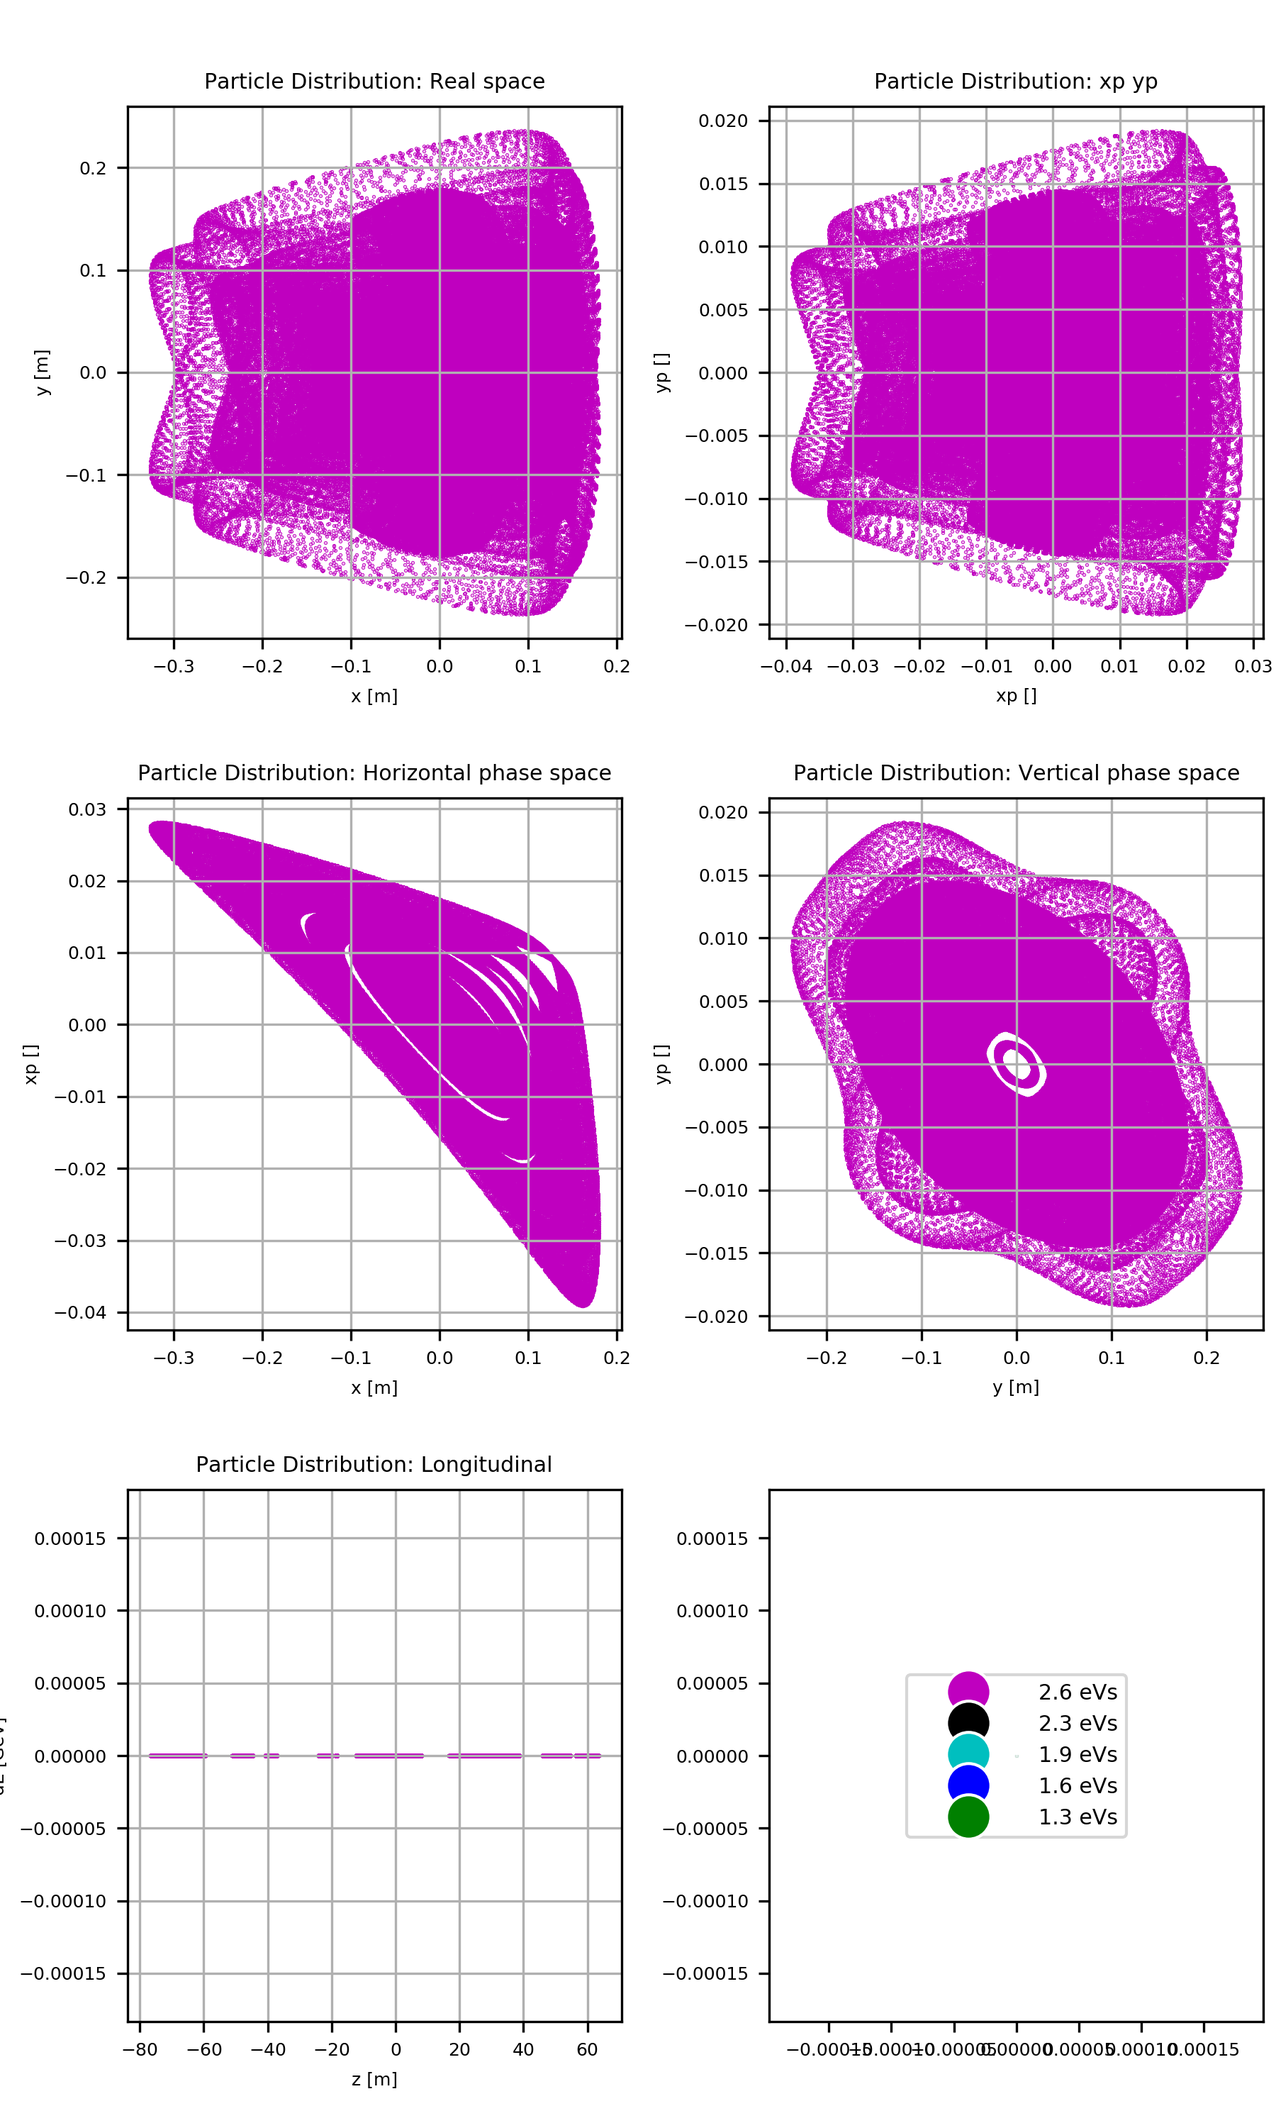
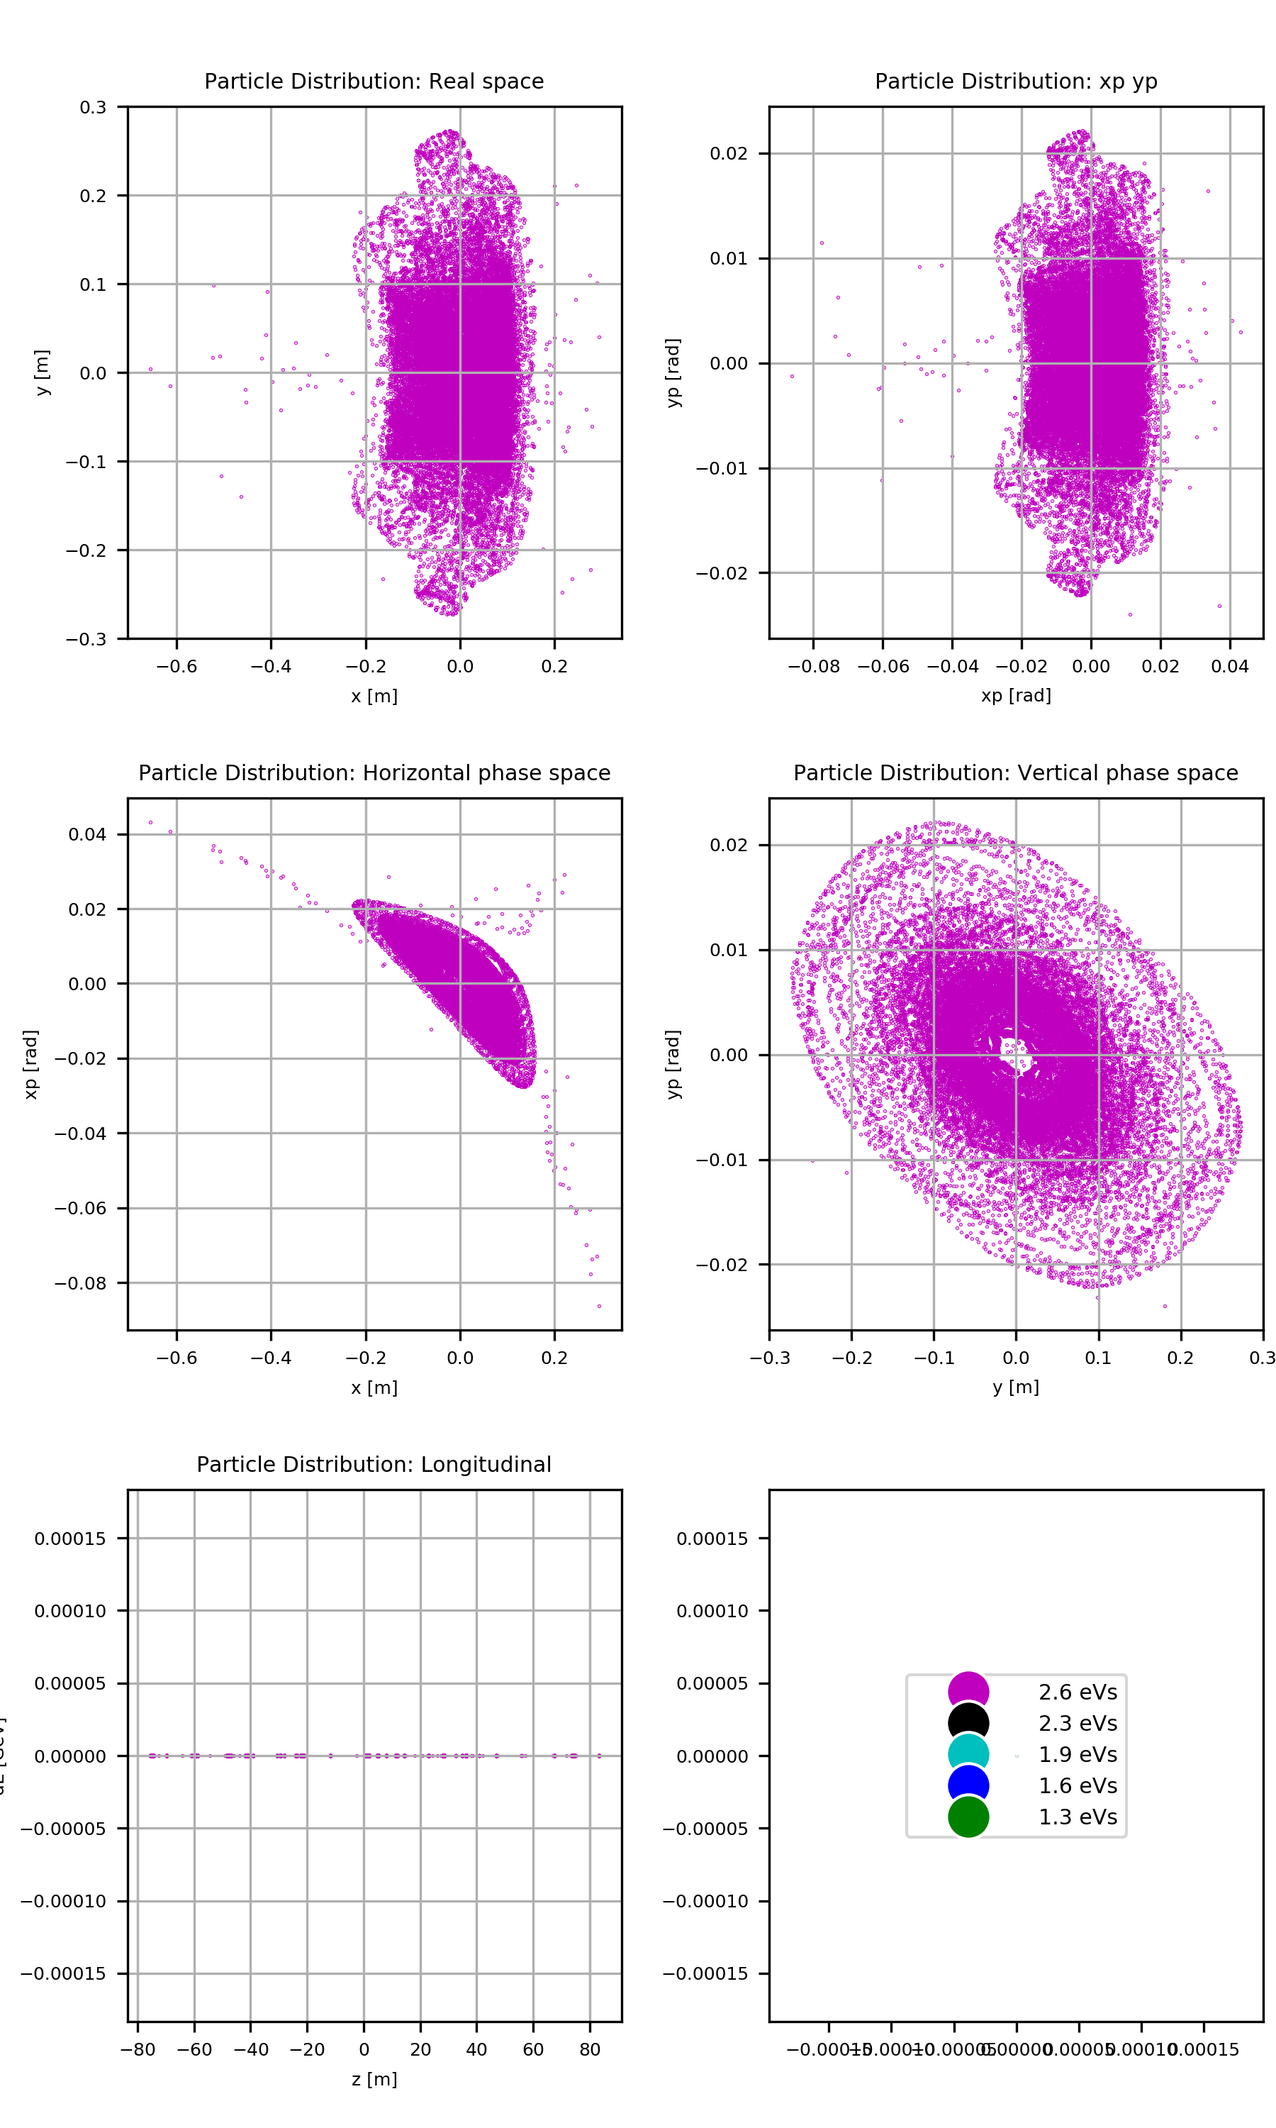
Added Test Distribtion for SIS18

diff --git a/Plotting/Bunch/plot_distributions.py b/Plotting/Bunch/plot_distributions.py
@@ -1,0 +1,150 @@
+# Plots the particle distributions in 5 phase spaces
+# x-y x-xp y-yp xp-yp z-dE
+# For the PS_Injection studies at different long. emittances
+
+import matplotlib.pyplot as plt
+from matplotlib.patches import Patch
+from matplotlib.lines import Line2D
+import numpy as np
+import scipy.io as sio 
+
+plt.rcParams['figure.figsize'] = [8.0, 6.0]
+plt.rcParams['figure.dpi'] = 300
+plt.rcParams['savefig.dpi'] = 300
+
+plt.rcParams['font.size'] = 6
+plt.rcParams['legend.fontsize'] = 'large'
+plt.rcParams['legend.handlelength'] = 5
+
+plt.rcParams['figure.titlesize'] = 'medium'
+
+plt.rcParams['lines.linewidth'] = 0.5
+plt.rcParams['lines.markersize'] = 0.25
+
+# Open File
+file_1p3='1.3.mainbunch_000999.mat'
+file_1p6='1.6.mainbunch_000999.mat'
+file_1p9='1.9.mainbunch_000999.mat'
+file_2p3='2.3.mainbunch_000999.mat'
+file_2p6='2.6.mainbunch_000999.mat'
+
+particles_1p3=dict()
+particles_1p6=dict()
+particles_1p9=dict()
+particles_2p3=dict()
+particles_2p6=dict()
+
+sio.loadmat(file_1p3, mdict=particles_1p3)
+sio.loadmat(file_1p6, mdict=particles_1p6)
+sio.loadmat(file_1p9, mdict=particles_1p9)
+sio.loadmat(file_2p3, mdict=particles_2p3)
+sio.loadmat(file_2p6, mdict=particles_2p6)
+
+# ~ print particles_1p3['bunchparameters'].dtype.names
+# ~ print dir(particles_1p3['bunchparameters'])
+# ~ exit()
+# ~ print particles_1p3['particles']['x'][0][0]
+# ~ print np.asarray(particles_1p3['particles']['x'][0][0][0])
+# ~ print np.squeeze(np.asarray(particles_1p3['particles']['x'][0][0][0]))
+
+# Parameters
+	# ~ x  = d['particles']['x'][()]
+	# ~ xp = d['particles']['xp'][()]
+	# ~ y  = d['particles']['y'][()]
+	# ~ yp = d['particles']['yp'][()]
+	# ~ z  = d['particles']['z'][()]
+	# ~ dE = d['particles']['dE'][()]
+
+#####################
+#   x,y,xp,yp,z,dE  #
+#####################
+
+# ~ fig1=plt.figure(figsize=(6,10),constrained_layout=True)
+fig1=plt.figure(figsize=(6,10))
+ax1 = fig1.add_subplot(321) 
+ax2 = fig1.add_subplot(322)
+ax3 = fig1.add_subplot(323) 
+ax4 = fig1.add_subplot(324)
+ax5 = fig1.add_subplot(325) 
+ax6 = fig1.add_subplot(326)
+
+# ~ fig2.subplots_adjust(wspace=width between plots, hspace=height between plots, left=margin, right=margin, top=margin, bottom=margin)
+# ~ fig2.subplots_adjust(wspace=0.1, hspace=0.3, left=0.15, right=0.99, top=0.95, bottom=0.1)
+fig1.subplots_adjust(wspace=0.3, hspace=0.3, left=0.1, right=0.99, top=0.95, bottom=0.05)
+#fig.tight_layout()                            
+
+ax1.scatter(particles_2p6['particles']['x'][0][0][0], particles_2p6['particles']['y'][0][0][0], color='m', label='2.6 eVs');
+ax1.scatter(particles_2p3['particles']['x'][0][0][0], particles_2p3['particles']['y'][0][0][0], color='k', label='2.3 eVs');
+ax1.scatter(particles_1p9['particles']['x'][0][0][0], particles_1p9['particles']['y'][0][0][0], color='c', label='1.9 eVs');
+ax1.scatter(particles_1p6['particles']['x'][0][0][0], particles_1p6['particles']['y'][0][0][0], color='b', label='1.6 eVs');
+ax1.scatter(particles_1p3['particles']['x'][0][0][0], particles_1p3['particles']['y'][0][0][0], color='g', label='1.3 eVs');
+
+# ~ ax1.legend();
+ax1.set_xlabel('x [m]');
+ax1.set_ylabel('y [m]');
+ax1.set_title('Particle Distribution: Real space');
+ax1.grid(True);
+
+ax2.scatter(particles_2p6['particles']['xp'][0][0][0], particles_2p6['particles']['yp'][0][0][0], color='m', label='2.6 eVs');
+ax2.scatter(particles_2p3['particles']['xp'][0][0][0], particles_2p3['particles']['yp'][0][0][0], color='k', label='2.3 eVs');
+ax2.scatter(particles_1p9['particles']['xp'][0][0][0], particles_1p9['particles']['yp'][0][0][0], color='c', label='1.9 eVs');
+ax2.scatter(particles_1p6['particles']['xp'][0][0][0], particles_1p6['particles']['yp'][0][0][0], color='b', label='1.6 eVs');
+ax2.scatter(particles_1p3['particles']['xp'][0][0][0], particles_1p3['particles']['yp'][0][0][0], color='g', label='1.3 eVs');
+
+ax2.set_xlabel('xp []');
+ax2.set_ylabel('yp []');
+ax2.set_title('Particle Distribution: xp yp');
+ax2.grid(True);
+
+ax3.scatter(particles_2p6['particles']['x'][0][0][0], particles_2p6['particles']['xp'][0][0][0], color='m', label='2.6 eVs');
+ax3.scatter(particles_2p3['particles']['x'][0][0][0], particles_2p3['particles']['xp'][0][0][0], color='k', label='2.3 eVs');
+ax3.scatter(particles_1p9['particles']['x'][0][0][0], particles_1p9['particles']['xp'][0][0][0], color='c', label='1.9 eVs');
+ax3.scatter(particles_1p6['particles']['x'][0][0][0], particles_1p6['particles']['xp'][0][0][0], color='b', label='1.6 eVs');
+ax3.scatter(particles_1p3['particles']['x'][0][0][0], particles_1p3['particles']['xp'][0][0][0], color='g', label='1.3 eVs');
+
+ax3.set_xlabel('x [m]');
+ax3.set_ylabel('xp []');
+ax3.set_title('Particle Distribution: Horizontal phase space');
+ax3.grid(True);
+
+ax4.scatter(particles_2p6['particles']['y'][0][0][0], particles_2p6['particles']['yp'][0][0][0], color='m', label='2.6 eVs');
+ax4.scatter(particles_2p3['particles']['y'][0][0][0], particles_2p3['particles']['yp'][0][0][0], color='k', label='2.3 eVs');
+ax4.scatter(particles_1p9['particles']['y'][0][0][0], particles_1p9['particles']['yp'][0][0][0], color='c', label='1.9 eVs');
+ax4.scatter(particles_1p6['particles']['y'][0][0][0], particles_1p6['particles']['yp'][0][0][0], color='b', label='1.6 eVs');
+ax4.scatter(particles_1p3['particles']['y'][0][0][0], particles_1p3['particles']['yp'][0][0][0], color='g', label='1.3 eVs');
+
+ax4.set_xlabel('y [m]');
+ax4.set_ylabel('yp []');
+ax4.set_title('Particle Distribution: Vertical phase space');
+ax4.grid(True);
+
+
+ax5.scatter(particles_2p6['particles']['z'][0][0][0], particles_2p6['particles']['dE'][0][0][0], color='m', label='2.6 eVs');
+ax5.scatter(particles_2p3['particles']['z'][0][0][0], particles_2p3['particles']['dE'][0][0][0], color='k', label='2.3 eVs');
+ax5.scatter(particles_1p9['particles']['z'][0][0][0], particles_1p9['particles']['dE'][0][0][0], color='c', label='1.9 eVs');
+ax5.scatter(particles_1p6['particles']['z'][0][0][0], particles_1p6['particles']['dE'][0][0][0], color='b', label='1.6 eVs');
+ax5.scatter(particles_1p3['particles']['z'][0][0][0], particles_1p3['particles']['dE'][0][0][0], color='g', label='1.3 eVs');
+
+ax5.set_xlabel('z [m]');
+ax5.set_ylabel('dE [GeV]');
+ax5.set_title('Particle Distribution: Longitudinal');
+ax5.grid(True);
+
+ax6.scatter(0,0,color='m', label='2.6 eVs')
+ax6.scatter(0,0,color='k', label='2.3 eVs')
+ax6.scatter(0,0,color='c', label='1.9 eVs')
+ax6.scatter(0,0,color='b', label='1.6 eVs')
+ax6.scatter(0,0,color='g', label='1.3 eVs')
+
+legend_elements = [Line2D([0], [0], marker='o', color='w', label='2.6 eVs', markerfacecolor='m', markersize=15),
+                   Line2D([0], [0], marker='o', color='w', label='2.3 eVs', markerfacecolor='k', markersize=15),
+                   Line2D([0], [0], marker='o', color='w', label='1.9 eVs', markerfacecolor='c', markersize=15),
+                   Line2D([0], [0], marker='o', color='w', label='1.6 eVs', markerfacecolor='b', markersize=15),
+                   Line2D([0], [0], marker='o', color='w', label='1.3 eVs', markerfacecolor='g', markersize=15)]
+
+ax6.legend(handles=legend_elements, loc='center')
+
+
+# ~ plt.show();
+# ~ fig1.savefig('Emittance_y.png', transparent=True);
+fig1.savefig('Distribution_Turn_1000.png');

diff --git a/Plotting/Bunch/plot_distribution.py b/Plotting/Bunch/plot_distribution.py
@@ -23,22 +23,10 @@ plt.rcParams['lines.markersize'] = 0.25
 
 # Open File
 file_1p3='1.3.mainbunch_000999.mat'
-file_1p6='1.6.mainbunch_000999.mat'
-file_1p9='1.9.mainbunch_000999.mat'
-file_2p3='2.3.mainbunch_000999.mat'
-file_2p6='2.6.mainbunch_000999.mat'
 
 particles_1p3=dict()
-particles_1p6=dict()
-particles_1p9=dict()
-particles_2p3=dict()
-particles_2p6=dict()
 
 sio.loadmat(file_1p3, mdict=particles_1p3)
-sio.loadmat(file_1p6, mdict=particles_1p6)
-sio.loadmat(file_1p9, mdict=particles_1p9)
-sio.loadmat(file_2p3, mdict=particles_2p3)
-sio.loadmat(file_2p6, mdict=particles_2p6)
 
 # ~ print particles_1p3['bunchparameters'].dtype.names
 # ~ print dir(particles_1p3['bunchparameters'])
@@ -73,10 +61,6 @@ ax6 = fig1.add_subplot(326)
 fig1.subplots_adjust(wspace=0.3, hspace=0.3, left=0.1, right=0.99, top=0.95, bottom=0.05)
 #fig.tight_layout()                            
 
-ax1.scatter(particles_2p6['particles']['x'][0][0][0], particles_2p6['particles']['y'][0][0][0], color='m', label='2.6 eVs');
-ax1.scatter(particles_2p3['particles']['x'][0][0][0], particles_2p3['particles']['y'][0][0][0], color='k', label='2.3 eVs');
-ax1.scatter(particles_1p9['particles']['x'][0][0][0], particles_1p9['particles']['y'][0][0][0], color='c', label='1.9 eVs');
-ax1.scatter(particles_1p6['particles']['x'][0][0][0], particles_1p6['particles']['y'][0][0][0], color='b', label='1.6 eVs');
 ax1.scatter(particles_1p3['particles']['x'][0][0][0], particles_1p3['particles']['y'][0][0][0], color='g', label='1.3 eVs');
 
 # ~ ax1.legend();
@@ -85,10 +69,6 @@ ax1.set_ylabel('y [m]');
 ax1.set_title('Particle Distribution: Real space');
 ax1.grid(True);
 
-ax2.scatter(particles_2p6['particles']['xp'][0][0][0], particles_2p6['particles']['yp'][0][0][0], color='m', label='2.6 eVs');
-ax2.scatter(particles_2p3['particles']['xp'][0][0][0], particles_2p3['particles']['yp'][0][0][0], color='k', label='2.3 eVs');
-ax2.scatter(particles_1p9['particles']['xp'][0][0][0], particles_1p9['particles']['yp'][0][0][0], color='c', label='1.9 eVs');
-ax2.scatter(particles_1p6['particles']['xp'][0][0][0], particles_1p6['particles']['yp'][0][0][0], color='b', label='1.6 eVs');
 ax2.scatter(particles_1p3['particles']['xp'][0][0][0], particles_1p3['particles']['yp'][0][0][0], color='g', label='1.3 eVs');
 
 ax2.set_xlabel('xp []');
@@ -96,10 +76,6 @@ ax2.set_ylabel('yp []');
 ax2.set_title('Particle Distribution: xp yp');
 ax2.grid(True);
 
-ax3.scatter(particles_2p6['particles']['x'][0][0][0], particles_2p6['particles']['xp'][0][0][0], color='m', label='2.6 eVs');
-ax3.scatter(particles_2p3['particles']['x'][0][0][0], particles_2p3['particles']['xp'][0][0][0], color='k', label='2.3 eVs');
-ax3.scatter(particles_1p9['particles']['x'][0][0][0], particles_1p9['particles']['xp'][0][0][0], color='c', label='1.9 eVs');
-ax3.scatter(particles_1p6['particles']['x'][0][0][0], particles_1p6['particles']['xp'][0][0][0], color='b', label='1.6 eVs');
 ax3.scatter(particles_1p3['particles']['x'][0][0][0], particles_1p3['particles']['xp'][0][0][0], color='g', label='1.3 eVs');
 
 ax3.set_xlabel('x [m]');
@@ -107,10 +83,6 @@ ax3.set_ylabel('xp []');
 ax3.set_title('Particle Distribution: Horizontal phase space');
 ax3.grid(True);
 
-ax4.scatter(particles_2p6['particles']['y'][0][0][0], particles_2p6['particles']['yp'][0][0][0], color='m', label='2.6 eVs');
-ax4.scatter(particles_2p3['particles']['y'][0][0][0], particles_2p3['particles']['yp'][0][0][0], color='k', label='2.3 eVs');
-ax4.scatter(particles_1p9['particles']['y'][0][0][0], particles_1p9['particles']['yp'][0][0][0], color='c', label='1.9 eVs');
-ax4.scatter(particles_1p6['particles']['y'][0][0][0], particles_1p6['particles']['yp'][0][0][0], color='b', label='1.6 eVs');
 ax4.scatter(particles_1p3['particles']['y'][0][0][0], particles_1p3['particles']['yp'][0][0][0], color='g', label='1.3 eVs');
 
 ax4.set_xlabel('y [m]');
@@ -118,11 +90,6 @@ ax4.set_ylabel('yp []');
 ax4.set_title('Particle Distribution: Vertical phase space');
 ax4.grid(True);
 
-
-ax5.scatter(particles_2p6['particles']['z'][0][0][0], particles_2p6['particles']['dE'][0][0][0], color='m', label='2.6 eVs');
-ax5.scatter(particles_2p3['particles']['z'][0][0][0], particles_2p3['particles']['dE'][0][0][0], color='k', label='2.3 eVs');
-ax5.scatter(particles_1p9['particles']['z'][0][0][0], particles_1p9['particles']['dE'][0][0][0], color='c', label='1.9 eVs');
-ax5.scatter(particles_1p6['particles']['z'][0][0][0], particles_1p6['particles']['dE'][0][0][0], color='b', label='1.6 eVs');
 ax5.scatter(particles_1p3['particles']['z'][0][0][0], particles_1p3['particles']['dE'][0][0][0], color='g', label='1.3 eVs');
 
 ax5.set_xlabel('z [m]');
@@ -130,19 +97,19 @@ ax5.set_ylabel('dE [GeV]');
 ax5.set_title('Particle Distribution: Longitudinal');
 ax5.grid(True);
 
-ax6.scatter(0,0,color='m', label='2.6 eVs')
-ax6.scatter(0,0,color='k', label='2.3 eVs')
-ax6.scatter(0,0,color='c', label='1.9 eVs')
-ax6.scatter(0,0,color='b', label='1.6 eVs')
-ax6.scatter(0,0,color='g', label='1.3 eVs')
+# ~ ax6.scatter(0,0,color='m', label='2.6 eVs')
+# ~ ax6.scatter(0,0,color='k', label='2.3 eVs')
+# ~ ax6.scatter(0,0,color='c', label='1.9 eVs')
+# ~ ax6.scatter(0,0,color='b', label='1.6 eVs')
+# ~ ax6.scatter(0,0,color='g', label='1.3 eVs')
 
-legend_elements = [Line2D([0], [0], marker='o', color='w', label='2.6 eVs', markerfacecolor='m', markersize=15),
-                   Line2D([0], [0], marker='o', color='w', label='2.3 eVs', markerfacecolor='k', markersize=15),
-                   Line2D([0], [0], marker='o', color='w', label='1.9 eVs', markerfacecolor='c', markersize=15),
-                   Line2D([0], [0], marker='o', color='w', label='1.6 eVs', markerfacecolor='b', markersize=15),
-                   Line2D([0], [0], marker='o', color='w', label='1.3 eVs', markerfacecolor='g', markersize=15)]
+# ~ legend_elements = [Line2D([0], [0], marker='o', color='w', label='2.6 eVs', markerfacecolor='m', markersize=15),
+                   # ~ Line2D([0], [0], marker='o', color='w', label='2.3 eVs', markerfacecolor='k', markersize=15),
+                   # ~ Line2D([0], [0], marker='o', color='w', label='1.9 eVs', markerfacecolor='c', markersize=15),
+                   # ~ Line2D([0], [0], marker='o', color='w', label='1.6 eVs', markerfacecolor='b', markersize=15),
+                   # ~ Line2D([0], [0], marker='o', color='w', label='1.3 eVs', markerfacecolor='g', markersize=15)]
 
-ax6.legend(handles=legend_elements, loc='center')
+# ~ ax6.legend(handles=legend_elements, loc='center')
 
 
 # ~ plt.show();

diff --git a/lib/pyOrbit_GenerateInitialDistribution2.py b/lib/pyOrbit_GenerateInitialDistribution2.py
@@ -156,7 +156,7 @@ def generate_initial_distribution(parameters, Lattice,output_file = 'Input/Parti
 
 	return output_file
 
-def generate_initial_poincare_distribution(parameters, Lattice,output_file = 'Input/ParticleDistribution.in', summary_file = 'Input/ParticleDistribution_summary.txt', outputFormat='Orbit'):
+def generate_initial_poincare_distribution(n_sigma, parameters, Lattice,output_file = 'Input/ParticleDistribution.in', summary_file = 'Input/ParticleDistribution_summary.txt', outputFormat='Orbit'):
 	parameters['alphax0'] = Lattice.alphax0
 	parameters['betax0']  = Lattice.betax0
 	parameters['alphay0'] = Lattice.alphay0
@@ -203,16 +203,18 @@ def generate_initial_poincare_distribution(parameters, Lattice,output_file = 'In
 			for i in range(parameters['n_macroparticles']):
 				(phi[i], dE[i]) = Longitudinal_distribution.getCoordinates()
 				# ~ (x[i], xp[i], y[i], yp[i]) = Transverse_distribution.getCoordinates()
-				(x[i], xp[i]) = Transverse_distribution.getCoordinates()
-				x[i] += closedOrbitx['x0']
-				xp[i] += closedOrbitx['xp0']
-				y[i] += closedOrbity['y0']
-				yp[i] += closedOrbity['yp0']
-				dpp = dE[i] / (parameters['energy']) / parameters['beta']**2
-				x[i] += dpp * dispersionx['etax0']
-				xp[i] += dpp * dispersionx['etapx0']	
-				y[i] += dpp * dispersiony['etay0']
-				yp[i] += dpp * dispersiony['etapy0']	
+				# ~ (x[i], xp[i]) = Transverse_distribution.getCoordinates()
+                                # x = 0 - 4 sigma (sqrt(beta*epsilon))
+                                x[i] = random.uniform(0., n_sigma) * np.sqrt(parameters['betax0'] * parameters['epsn_x'])
+				# ~ x[i] += closedOrbitx['x0']
+				# ~ xp[i] += closedOrbitx['xp0']
+				# ~ y[i] += closedOrbity['y0']
+				# ~ yp[i] += closedOrbity['yp0']
+				# ~ dpp = dE[i] / (parameters['energy']) / parameters['beta']**2
+				# ~ x[i] += dpp * dispersionx['etax0']
+				# ~ xp[i] += dpp * dispersionx['etapx0']	
+				# ~ y[i] += dpp * dispersiony['etay0']
+				# ~ yp[i] += dpp * dispersiony['etapy0']	
 				
 				if outputFormat == 'Orbit':
 					x[i] *= 1000.

diff --git a/SIS18/Simulation/Step1/pyOrbit.py b/SIS18/Simulation/Step1/pyOrbit.py
@@ -61,6 +61,7 @@ rank = orbit_mpi.MPI_Comm_rank(comm)
 from lib.mpi_helpers import mpi_mkdir_p
 mpi_mkdir_p('input')
 mpi_mkdir_p('output')
+mpi_mkdir_p('lost')
 
 
 #----------------------------------------------
@@ -122,7 +123,7 @@ p['beta']            = bunch.getSyncParticle().beta()
 p['energy']          = 1e9 * bunch.mass() * bunch.getSyncParticle().gamma()
 p['bunch_length'] = p['blength_rms']/speed_of_light/bunch.getSyncParticle().beta()*4
 kin_Energy = bunch.getSyncParticle().kinEnergy()
-Particle_distribution_file = generate_initial_distribution(p, Lattice, output_file='input/ParticleDistribution.in', summary_file='input/ParticleDistribution_summary.txt')
+Particle_distribution_file = generate_initial_poincare_distribution(10., p, Lattice, output_file='input/ParticleDistribution.in', summary_file='input/ParticleDistribution_summary.txt')
 # ~ Particle_distribution_file = generate_initial_distribution_y02(p, Lattice,  output_file='input/ParticleDistribution.in', summary_file='input/ParticleDistribution_summary.txt')
 
 
@@ -216,7 +217,7 @@ for turn in range(p['turns_max']):
 	bunch.addParticlesTo(bunch_tmp)	
 
 	saveBunchAsMatfile(bunch, "output/mainbunch_%s"%(str(turn).zfill(6)))
-	saveBunchAsMatfile(lostbunch, "output/lostbunch_%s"%(str(turn).zfill(6)))
-	output.save_to_matfile('output/output')
+	saveBunchAsMatfile(lostbunch, "lost/lostbunch_%s"%(str(turn).zfill(6)))
+	output.save_to_matfile('output')
 
 	output.update()

diff --git a/Plotting/Bunch/plot_distribution_in_vs_out.py b/Plotting/Bunch/plot_distribution_in_vs_out.py
@@ -117,4 +117,4 @@ ax6.legend(handles=legend_elements, loc='center')
 
 # ~ plt.show();
 # ~ fig1.savefig('Emittance_y.png', transparent=True);
-fig1.savefig('Distribution_Turn_1000.png');
+fig1.savefig('Distribution_Turn_0_1500_no_CO_D.png');
